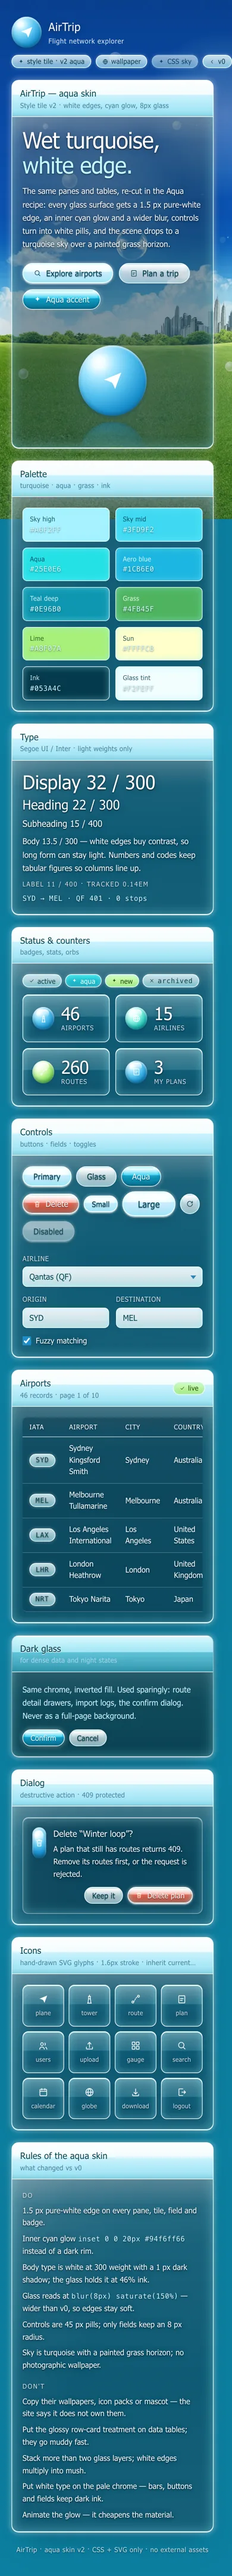
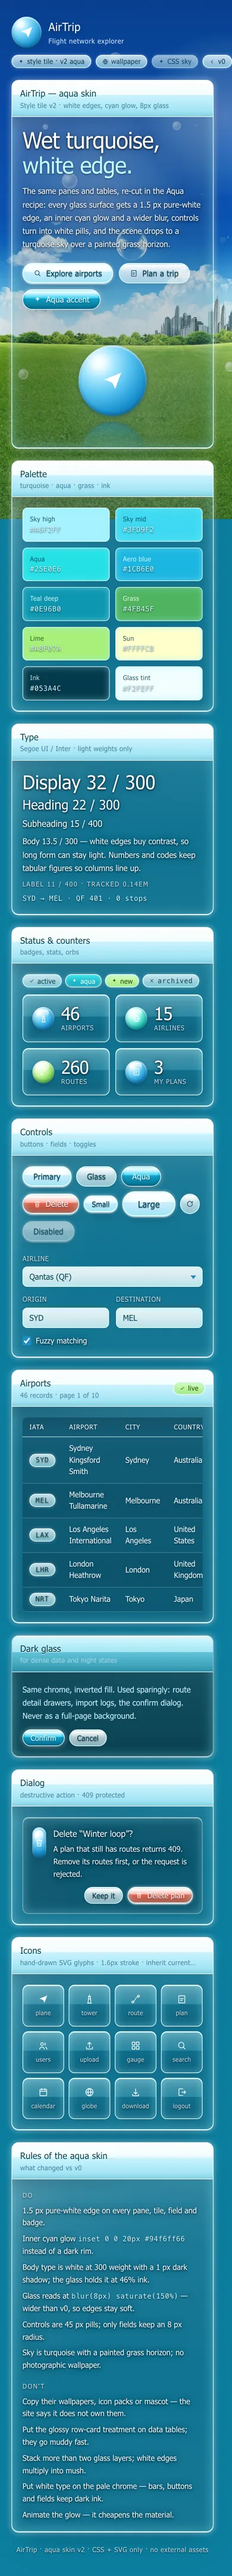
Take the Aqua glass down to a 15% fill
matches the mix you liked: nearly clear panes, white type carried by a stronger
shadow plus a soft veil behind the content, denser tables (30%) and a dim knob
so contrast can be traded back without re-tinting the glass.

Changed region(s): [[0.0308, 0.031, 0.9231, 0.6207], [0.0308, 0.6827, 0.9231, 0.9931], [0.8615, 0.5586, 0.9231, 0.6207]]

diff --git a/airtrip-web/src/styles/theme-aqua.css b/airtrip-web/src/styles/theme-aqua.css
@@ -29,7 +29,7 @@
   --ink-soft: #2c7389;
   --ink-faint: rgba(5, 58, 76, 0.55);
 
-  --glass-fill: rgba(4, 40, 58, 0.46);
+  --glass-fill: rgba(2, 28, 44, 0.15);
   --glass-edge: #ffffff;
   --glass-line: rgba(255, 255, 255, 0.9);
 
@@ -132,13 +132,31 @@
 /* The painted sky is brighter than a photograph, so it needs more ink
    under white type; the wallpaper carries its own contrast. */
 [data-theme='aqua']:not([data-wallpaper='on']) {
-  --glass-fill: rgba(3, 34, 50, 0.58);
+  --glass-fill: rgba(3, 34, 50, 0.22);
 }
 
 [data-theme='aqua']:not([data-wallpaper='on']) .win-dense {
   background:
     linear-gradient(180deg, rgba(255, 255, 255, 0.14) 0%, rgba(255, 255, 255, 0.04) 32%, rgba(255, 255, 255, 0.01) 100%),
-    rgba(3, 30, 45, 0.66);
+    rgba(3, 30, 45, 0.38);
+}
+
+/* A very clear pane cannot guarantee contrast on its own: the wallpaper has
+   bright clouds. This soft veil sits behind the content only, so the type keeps
+   a darker bed while the edges of the pane stay fully transparent. */
+[data-theme='aqua'] .win-body {
+  position: relative;
+  isolation: isolate;
+}
+
+[data-theme='aqua'] .win-body::before {
+  content: '';
+  position: absolute;
+  inset: 0;
+  z-index: -1;
+  pointer-events: none;
+  background:
+    radial-gradient(120% 90% at 0% 0%, rgba(2, 20, 34, 0.16) 0%, rgba(2, 20, 34, 0.05) 44%, rgba(2, 20, 34, 0) 72%);
 }
 
 /* ---------- glass ---------- */
@@ -149,8 +167,8 @@
     linear-gradient(180deg, rgba(255, 255, 255, 0.2) 0%, rgba(255, 255, 255, 0.06) 26%, rgba(255, 255, 255, 0.01) 60%, rgba(255, 255, 255, 0.04) 100%),
     var(--glass-fill);
   border: 1.5px solid #ffffff;
-  backdrop-filter: blur(8px) saturate(1.7) brightness(0.94);
-  -webkit-backdrop-filter: blur(8px) saturate(1.7) brightness(0.94);
+  backdrop-filter: blur(8px) saturate(1.7) brightness(var(--glass-dim, 0.90));
+  -webkit-backdrop-filter: blur(8px) saturate(1.7) brightness(var(--glass-dim, 0.90));
   box-shadow:
     inset 0 0 20px rgba(148, 246, 255, 0.45),
     inset 0 1px 0 #ffffff,
@@ -163,7 +181,7 @@
 [data-theme='aqua'] .win-dense {
   background:
     linear-gradient(180deg, rgba(255, 255, 255, 0.16) 0%, rgba(255, 255, 255, 0.04) 32%, rgba(255, 255, 255, 0.01) 100%),
-    rgba(4, 38, 55, 0.55);
+    rgba(4, 38, 55, 0.30);
 }
 
 [data-theme='aqua'] .win-bar {
@@ -342,7 +360,7 @@
 [data-theme='aqua'] .t-body,
 [data-theme='aqua'] .stat-value {
   color: #ffffff;
-  text-shadow: 0 1px 2px rgba(0, 12, 24, 0.78), 0 0 12px rgba(0, 18, 34, 0.3);
+  text-shadow: 0 1px 3px rgba(0, 10, 20, 0.92), 0 0 14px rgba(0, 14, 26, 0.45);
 }
 
 [data-theme='aqua'] .t-accent {
@@ -355,13 +373,13 @@
 [data-theme='aqua'] .stat-label,
 [data-theme='aqua'] .field-label {
   color: rgba(255, 255, 255, 0.82);
-  text-shadow: 0 1px 2px rgba(0, 14, 28, 0.55);
+  text-shadow: 0 1px 2px rgba(0, 12, 24, 0.8);
 }
 
 [data-theme='aqua'] .t-mono,
 [data-theme='aqua'] .win-body .mono {
   color: #d8fbff;
-  text-shadow: 0 1px 2px rgba(0, 14, 28, 0.55);
+  text-shadow: 0 1px 2px rgba(0, 12, 24, 0.8);
 }
 
 /* colour chips print their own ink, so they opt out of the light mono tone */

diff --git a/airtrip-web/src/pages/StyleTileAqua.vue b/airtrip-web/src/pages/StyleTileAqua.vue
@@ -11,8 +11,13 @@ let previous: string | null = null
 // Swap between the painted CSS sky and the photographic wallpaper.
 // ?fill=0.38 overrides the glass alpha on the fly, so the mix can be tuned
 // without editing the stylesheet (?bg=css renders the painted sky instead).
-const fillParam = Number(new URLSearchParams(window.location.search).get('fill'))
+const params = new URLSearchParams(window.location.search)
+const fillParam = Number(params.get('fill'))
 const glassFill = Number.isFinite(fillParam) && fillParam > 0 ? Math.min(fillParam, 1) : null
+// ?dim= darkens the backdrop instead of tinting it: keeps the glass clear
+// while white type still finds something to sit on.
+const dimParam = Number(params.get('dim'))
+const glassDim = Number.isFinite(dimParam) && dimParam > 0 ? Math.min(dimParam, 1) : null
 
 // ?bg=css renders the painted sky, default is the photographic wallpaper
 const wallpaper = ref(new URLSearchParams(window.location.search).get('bg') !== 'css')
@@ -28,12 +33,14 @@ onMounted(() => {
   root().setAttribute('data-theme', 'aqua')
   if (wallpaper.value) root().setAttribute('data-wallpaper', 'on')
   if (glassFill !== null) root().style.setProperty('--glass-fill', `rgba(4, 40, 58, ${glassFill})`)
+  if (glassDim !== null) root().style.setProperty('--glass-dim', String(glassDim))
 })
 onBeforeUnmount(() => {
   if (previous) root().setAttribute('data-theme', previous)
   else root().removeAttribute('data-theme')
   root().removeAttribute('data-wallpaper')
   root().style.removeProperty('--glass-fill')
+  root().style.removeProperty('--glass-dim')
 })
 
 // The page header sits straight on the scene, so its ink flips on the photo.

diff --git a/airtrip-web/README.en.md b/airtrip-web/README.en.md
@@ -54,8 +54,10 @@ The design system itself is documented in
 [`docs/style-tile-desktop.webp`](docs/style-tile-desktop.webp); the live version
 is `/app/style-tile`. The Aqua re-skin is sketched in
 [`docs/style-tile-compare.webp`](docs/style-tile-compare.webp) and served at
-`/app/style-tile-aqua` (top: v0, bottom: Aqua). Type on the glass is white at 300 weight with a dark shadow; title bars,
-buttons and fields keep dark ink. Its photographic background is a
+`/app/style-tile-aqua` (top: v0, bottom: Aqua). Type on the glass is white at 300 weight with a dark shadow over a very light
+fill (about 15%); title bars, buttons and fields keep dark ink. Try other mixes
+with `?fill=0.30` (glass alpha) and `?dim=0.86` (backdrop dim) — see
+`docs/glass-fill-ladder.webp`. Its photographic background is a
 user-supplied wallpaper ([`docs/style-tile-aqua-backgrounds.webp`](docs/style-tile-aqua-backgrounds.webp)
 compares it with the CSS-only sky); swap `src/assets/aero-wallpaper.webp` or use
 `?bg=css` if the image cannot be cleared for distribution.

diff --git a/airtrip-web/README.md b/airtrip-web/README.md
@@ -54,7 +54,7 @@ npm run build                          # 产物写入 dist/，由 Flask 在 /app
 [`docs/style-tile-desktop.webp`](docs/style-tile-desktop.webp)，运行中的版本是
 `/app/style-tile`。Aqua 皮肤的对比样张见
 [`docs/style-tile-compare.webp`](docs/style-tile-compare.webp)（上：v0，下：Aqua），
-线上版本是 `/app/style-tile-aqua`。玻璃上的文字是 300 字重的白色 + 深色阴影；标题栏、按钮、输入框保留深色文字。
+线上版本是 `/app/style-tile-aqua`。玻璃是很淡的一层（`--glass-fill` 约 15%），文字是 300 字重的白色 + 深色阴影；标题栏、按钮、输入框保留深色文字。想试别的浓度可以直接改 URL：`?fill=0.30`（玻璃浓度）、`?dim=0.86`（整体压暗），见 `docs/glass-fill-ladder.webp`。
 它的照片背景是你提供的壁纸
 （[`docs/style-tile-aqua-backgrounds.webp`](docs/style-tile-aqua-backgrounds.webp)
 是照片与纯 CSS 天空的对比）；如果这张图不能随仓库公开分发，替换
